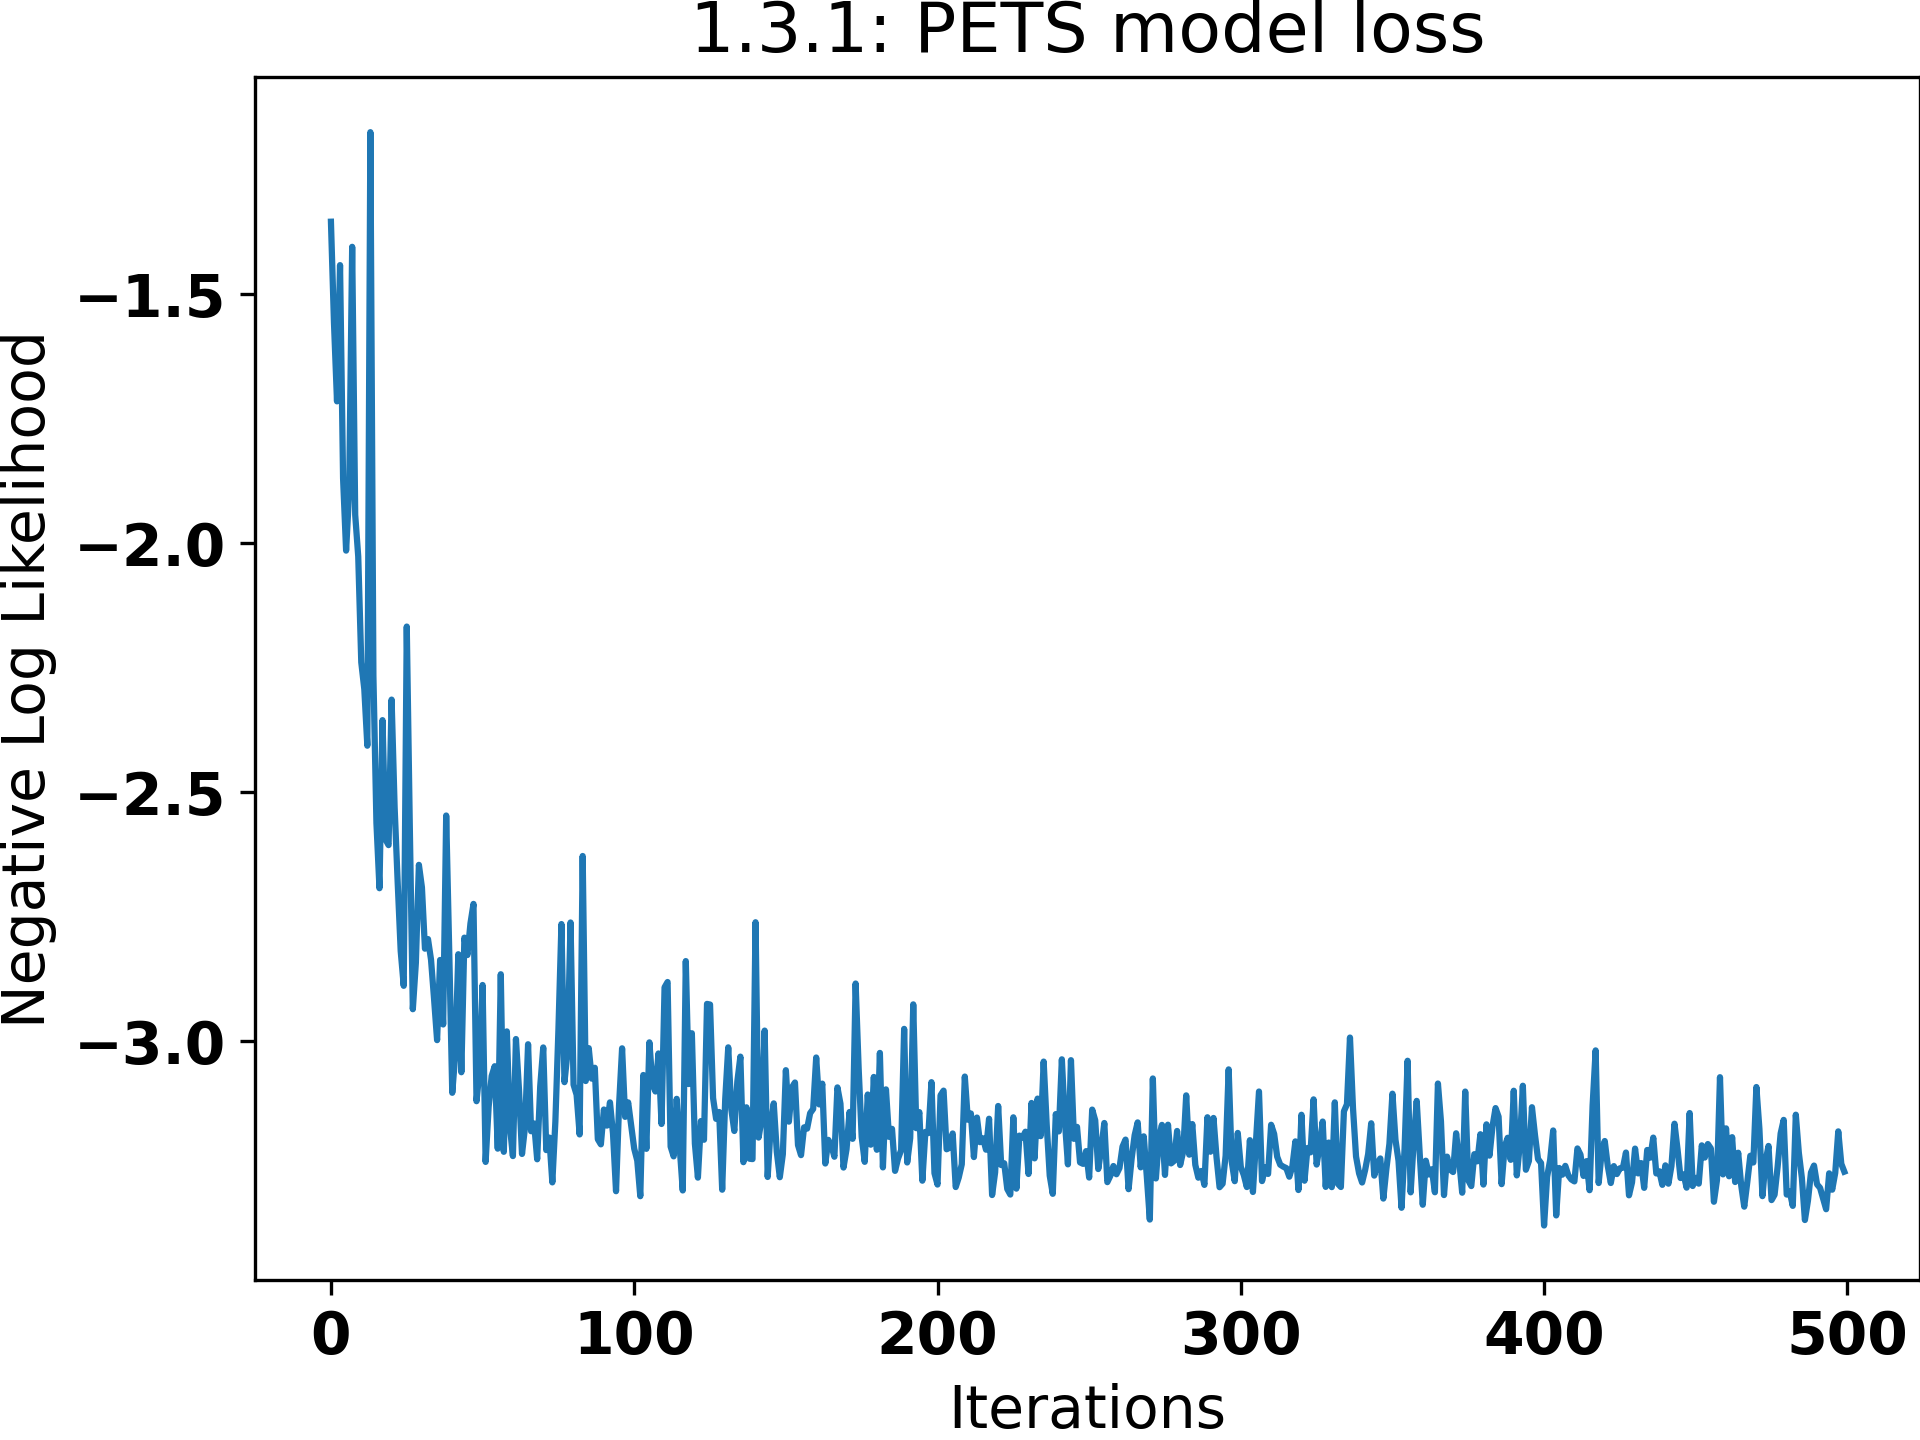
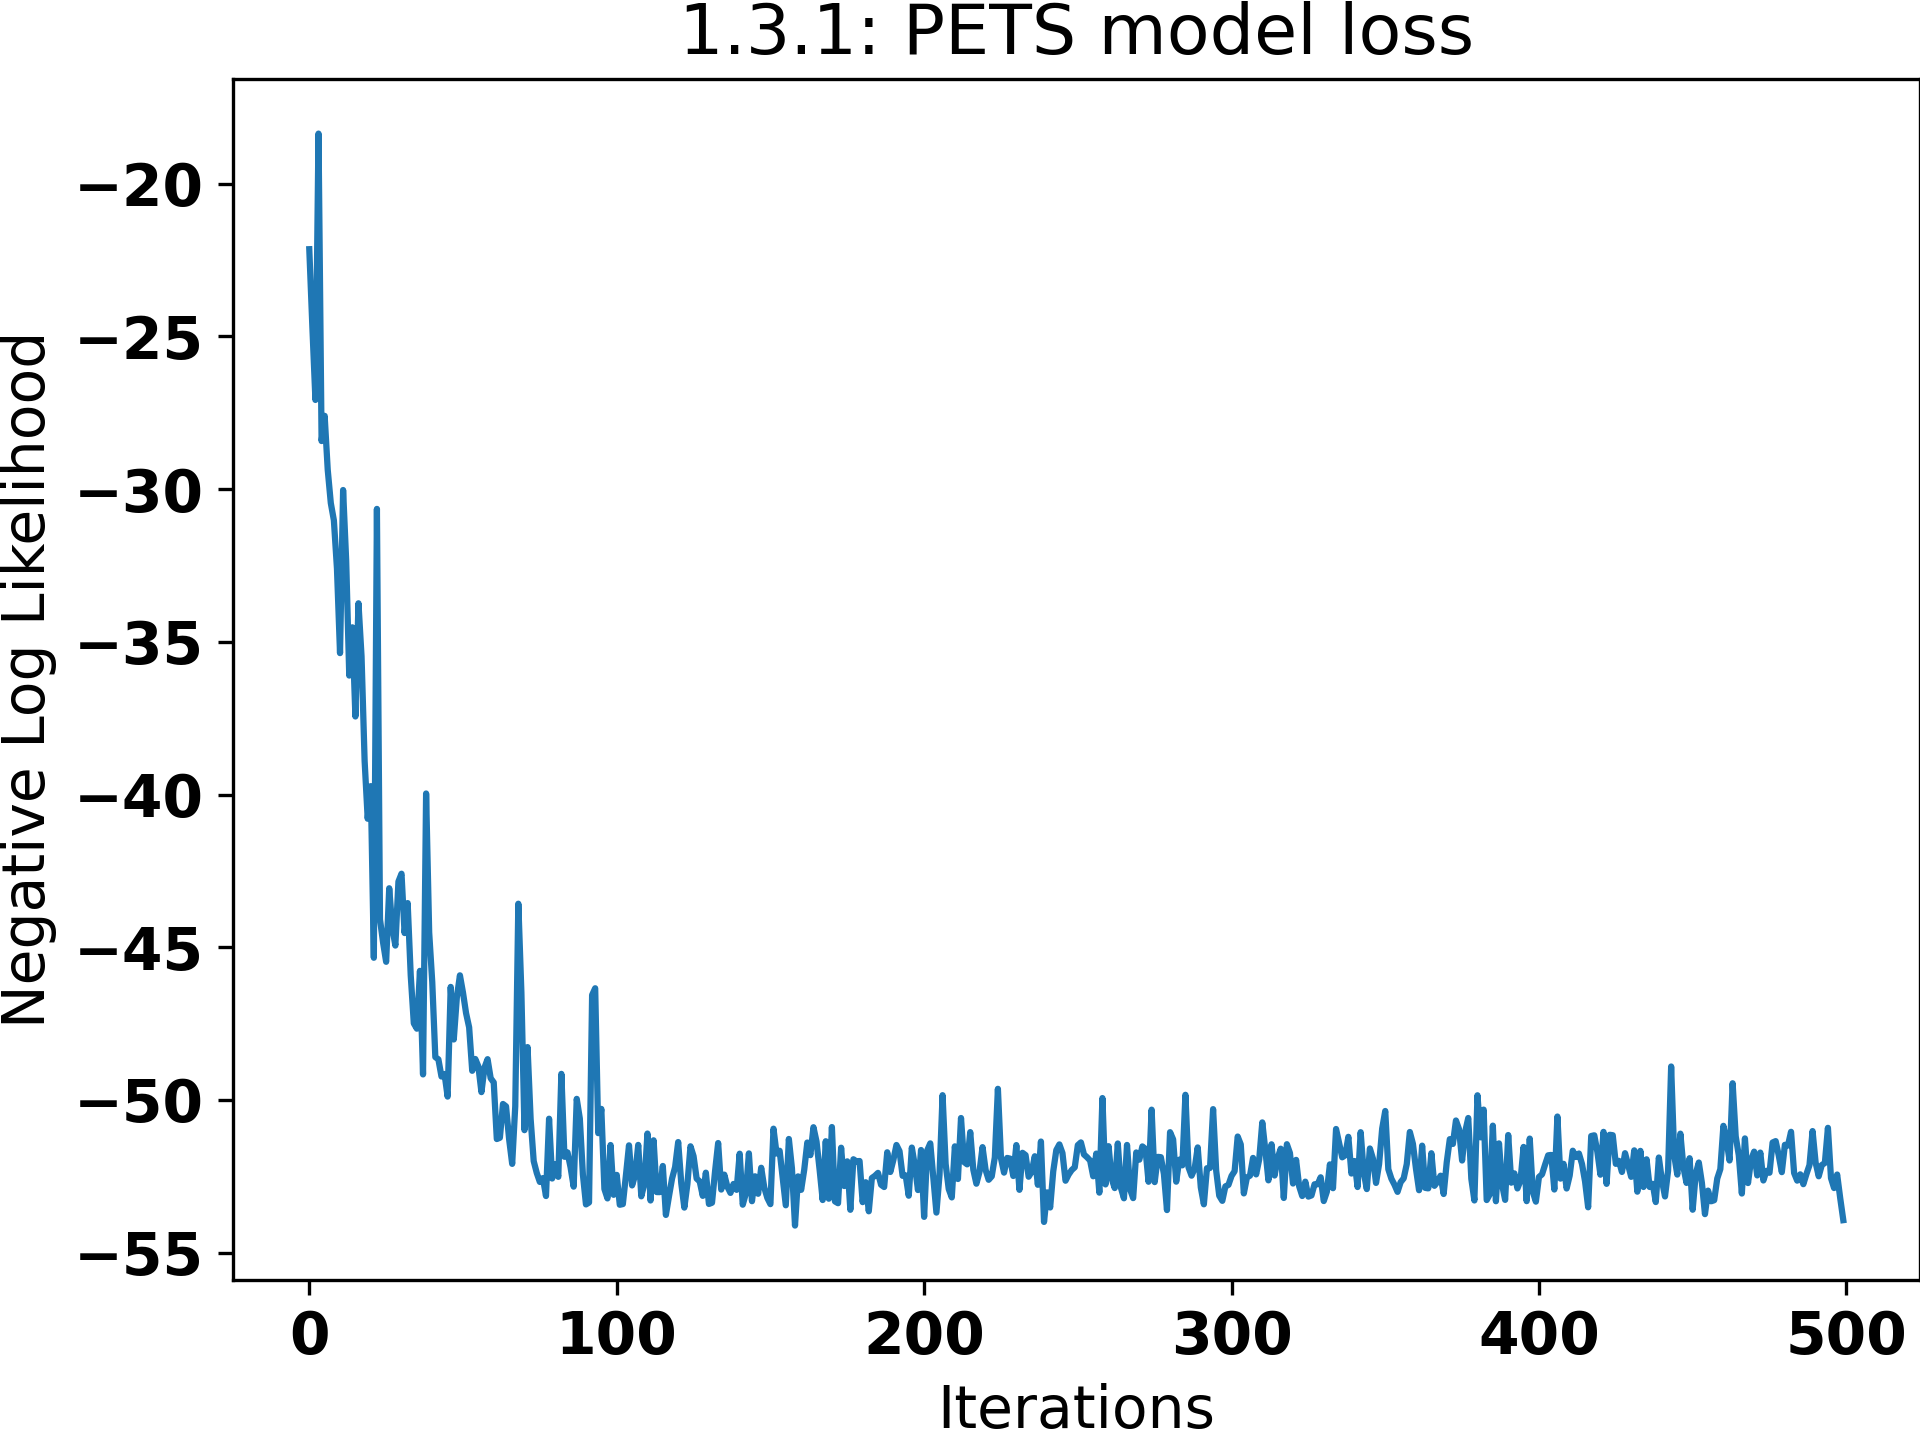
[Checkpoint] HW5 Complete

diff --git a/F25HW5/code/mpc.py b/F25HW5/code/mpc.py
@@ -171,45 +171,36 @@ class MPC:
         states_t = torch.tensor(states, dtype=torch.float32, device=self.model.device)
         actions_t = torch.tensor(actions, dtype=torch.float32, device=self.model.device).repeat_interleave(self.num_particles, dim=0) # repeat the actions 
         inputs = torch.cat([states_t, actions_t], dim=1).to(self.model.device) 
-       
 
-        # Step 1: Initialize trajectory 
-        trajectories = torch.zeros((P, T+1, state_dim), device=self.model.device)
-        trajectories[:, 0, :] = states_t  # Set initial states
 
-        # Step 2: Sample TS1 sequences for each particle
-        S = torch.randint(0, N, (P, T)) # particle --> time step --> pick model
+        # init next state 
+        next_states = torch.zeros((P, state_dim), device=self.model.device)
 
-        # Step 3: Expand actions to match particles
-       
-        # Step 4: Rollout policy on each particle 
-        s_current = states_t.clone()
-        for t in range(T):
-            # Get model indices for this step
-            model_indices = S[:, t] # size: [P, 1]
+        # pick a boostrap for each particle
+        S = torch.randint(0, N, (P, )) 
 
-            # Predict delta for each model separately
-            delta = torch.zeros_like(s_current)
-            for model_idx, model in enumerate(self.model.networks):
-                mask = (model_indices == model_idx)
-                if mask.sum() == 0:
-                    continue
+        for model_idx, network in enumerate(self.model.networks):
+            mask = (S == model_idx)
+            
+            if mask.sum() == 0:
+                # no one stepping with current model
+                continue
+            
+            # pass corresponding inputs to our model
+            relevant_inputs = inputs[mask]
+            output = network(relevant_inputs)
+            delta, log_var = output[:, :8], output[:, 8:] # now split into mean and sigma
 
-                # pass corresponding inputs to our model
-                relevant_inputs = inputs[mask]
-                output = model(relevant_inputs)
-                mean, log_var = output[:, :8], output[:, 8:] # now split into mean and sigma
+            # compute next state (TA: Model outputs delta)
+            std = torch.exp(0.5 * log_var) # just sigma 
+            eps = torch.randn_like(std)
+            delta = delta + eps * std # sample using this delta
 
-                # compute delta
-                std = torch.exp(0.5 * log_var)
-                eps = torch.randn_like(std)
-                delta[mask] = mean + eps * std
+            next_state = states_t[mask] + delta # go to the next state by adding delta to current state 
 
-            # Update current state and store in trajectory
-            s_current = s_current + delta
-            trajectories[:, t+1, :] = s_current
+            next_states[mask] = next_state # save 
 
-        return trajectories.cpu().detach().numpy().mean(axis=1) # avg across all particles for a given trajectory
+        return next_states.cpu().detach().numpy() # avg across all particles for a given trajectory
 
     def predict_next_state_gt(self, states, actions):
         """Given a list of state action pairs, use the ground truth dynamics to predict the next state"""

diff --git a/F25HW5/code/model.py b/F25HW5/code/model.py
@@ -65,18 +65,16 @@ class PENN(nn.Module):
         return mean, logvar
 
     def get_loss(self, targ, mean, logvar):
-        # TODO: write your code here
+        
+        # Compute inverse covariance (diagonal)
+        inv_var = torch.exp(-logvar) # Σ^{-1} 
 
-        # Get plain variance for future use
-        var = torch.exp(logvar)
+        diff = mean - targ # μ_θ(s_n, a_n) - s_{n+1}
+        first_term = torch.sum(diff * inv_var * diff, dim=-1)
 
-        # Use Gaussian-log-likelihood equation and take log of it to make easier
-        log_likelihood = -0.5 * logvar - 0.5 * (targ - mean) ** 2 / var
-
-        # We will optimize with respect to mu and sigma, we want to maximize this function at point x (targ) so make it negative so we do gradient ascent
-        negative_max_log_likelihood  = - log_likelihood
-
-        return negative_max_log_likelihood.mean() # get avg gradient
+        logdet = torch.sum(logvar, dim=-1) # log det Σ = sum log σ^2 (second term)
+        loss = first_term + logdet
+        return loss.mean()
 
     def create_network(self, n):
         layer_sizes = [
@@ -106,22 +104,20 @@ class PENN(nn.Module):
 
         """
         # TODO: write your code here
-        inputs = torch.tensor(inputs, dtype=torch.float32, device=self.device)
+        data = torch.tensor(inputs, dtype=torch.float32, device=self.device)
         targets = torch.tensor(targets, dtype=torch.float32, device=self.device)
 
         B = batch_size
         losses = np.zeros((num_train_itrs, self.num_nets)) 
         
-        
-
         for train_idx in range(num_train_itrs):
             for net_idx, network in enumerate(self.networks):
                 
                 # Uniformly sample with replacement 
-                random_indices = torch.randint(0, len(inputs), size=(B,), device=self.device)
+                random_indices = torch.randint(0, len(data), size=(B,), device=self.device)
                 
                 # Get Batch
-                mini_batch = inputs[random_indices]
+                mini_batch = data[random_indices]
                 mini_batch_targets = targets[random_indices]
 
                 # take gradient 

diff --git a/F25HW5/code/train.py b/F25HW5/code/train.py
@@ -74,27 +74,27 @@ class TrainerTD3:
         # TODO: write your code here
         # randomly choose a network from ensemble and get new state from it
         print("Choosing random network")
-        # Randomly select a network from the ensemble
+        
+        # randomly select a network from the ensemble
         model_idx = torch.randint(0, self.model.num_nets, (1,)).item()
-        model = self.model.networks[model_idx]
+        network = self.model.networks[model_idx]
 
-        # Convert state and action to tensors and add batch dimension
+        # convert state and action to tensors and add batch dimension, then concat
         state_tensor = torch.tensor(state, dtype=torch.float32).unsqueeze(0).to(self.model.device)
         action_tensor = torch.tensor(action, dtype=torch.float32).unsqueeze(0).to(self.model.device)
-
-        # Concatenate state and action
-        sa_input = torch.cat([state_tensor, action_tensor], dim=1)
+        inputs = torch.cat([state_tensor, action_tensor], dim=1)
 
         # Forward pass through selected model
-        output = model(sa_input)
-        mean, logvar = output[:, :self.model.state_dim], output[:, self.model.state_dim:]
+        output = network(inputs)
+        delta, logvar = output[:, :self.model.state_dim], output[:, self.model.state_dim:]
+        
+        # Sample from delta 
         std = torch.exp(0.5 * logvar)
         eps = torch.randn_like(std)
-        delta = mean + eps * std
+        delta = delta + eps * std
 
         # Compute the next state
         new_state = state_tensor + delta
-
         
         return self.env.step_state(
             new_state.tolist()

diff --git a/F25HW5/code/agent.py b/F25HW5/code/agent.py
@@ -15,7 +15,7 @@ class Agent:
         """
         rewards = []
         states, actions, reward_sum, done = [self.env.reset()], [], 0, False
-
+        
         policy.reset()
         for t in range(horizon):
             actions.append(policy.act(states[t], t))
@@ -26,7 +26,7 @@ class Agent:
             if done:
                 break
 
-        #print("Rollout length: %d,\tTotal reward: %d,\t Last reward: %d" % (len(actions), reward_sum), reward)
+        #print("Rollout length: {},\tTotal reward: {},\t Last reward: {}".format(len(actions), reward_sum, reward))
 
         return {
             "obs": np.array(states),

diff --git a/F25HW5/code/run.py b/F25HW5/code/run.py
@@ -275,5 +275,5 @@ if __name__ == "__main__":
     device = torch.device('cuda:%d' % gpu_number if torch.cuda.is_available() else 'cpu')
 
     #test_cem_gt_dynamics(50)    # Q1.1
-    train_single_dynamics(50, device=device)   # Q1.2
-    #train_pets(device=device)  # Q1.3
+    #train_single_dynamics(50, device=device)   # Q1.2
+    train_pets(device=device)  # Q1.3
